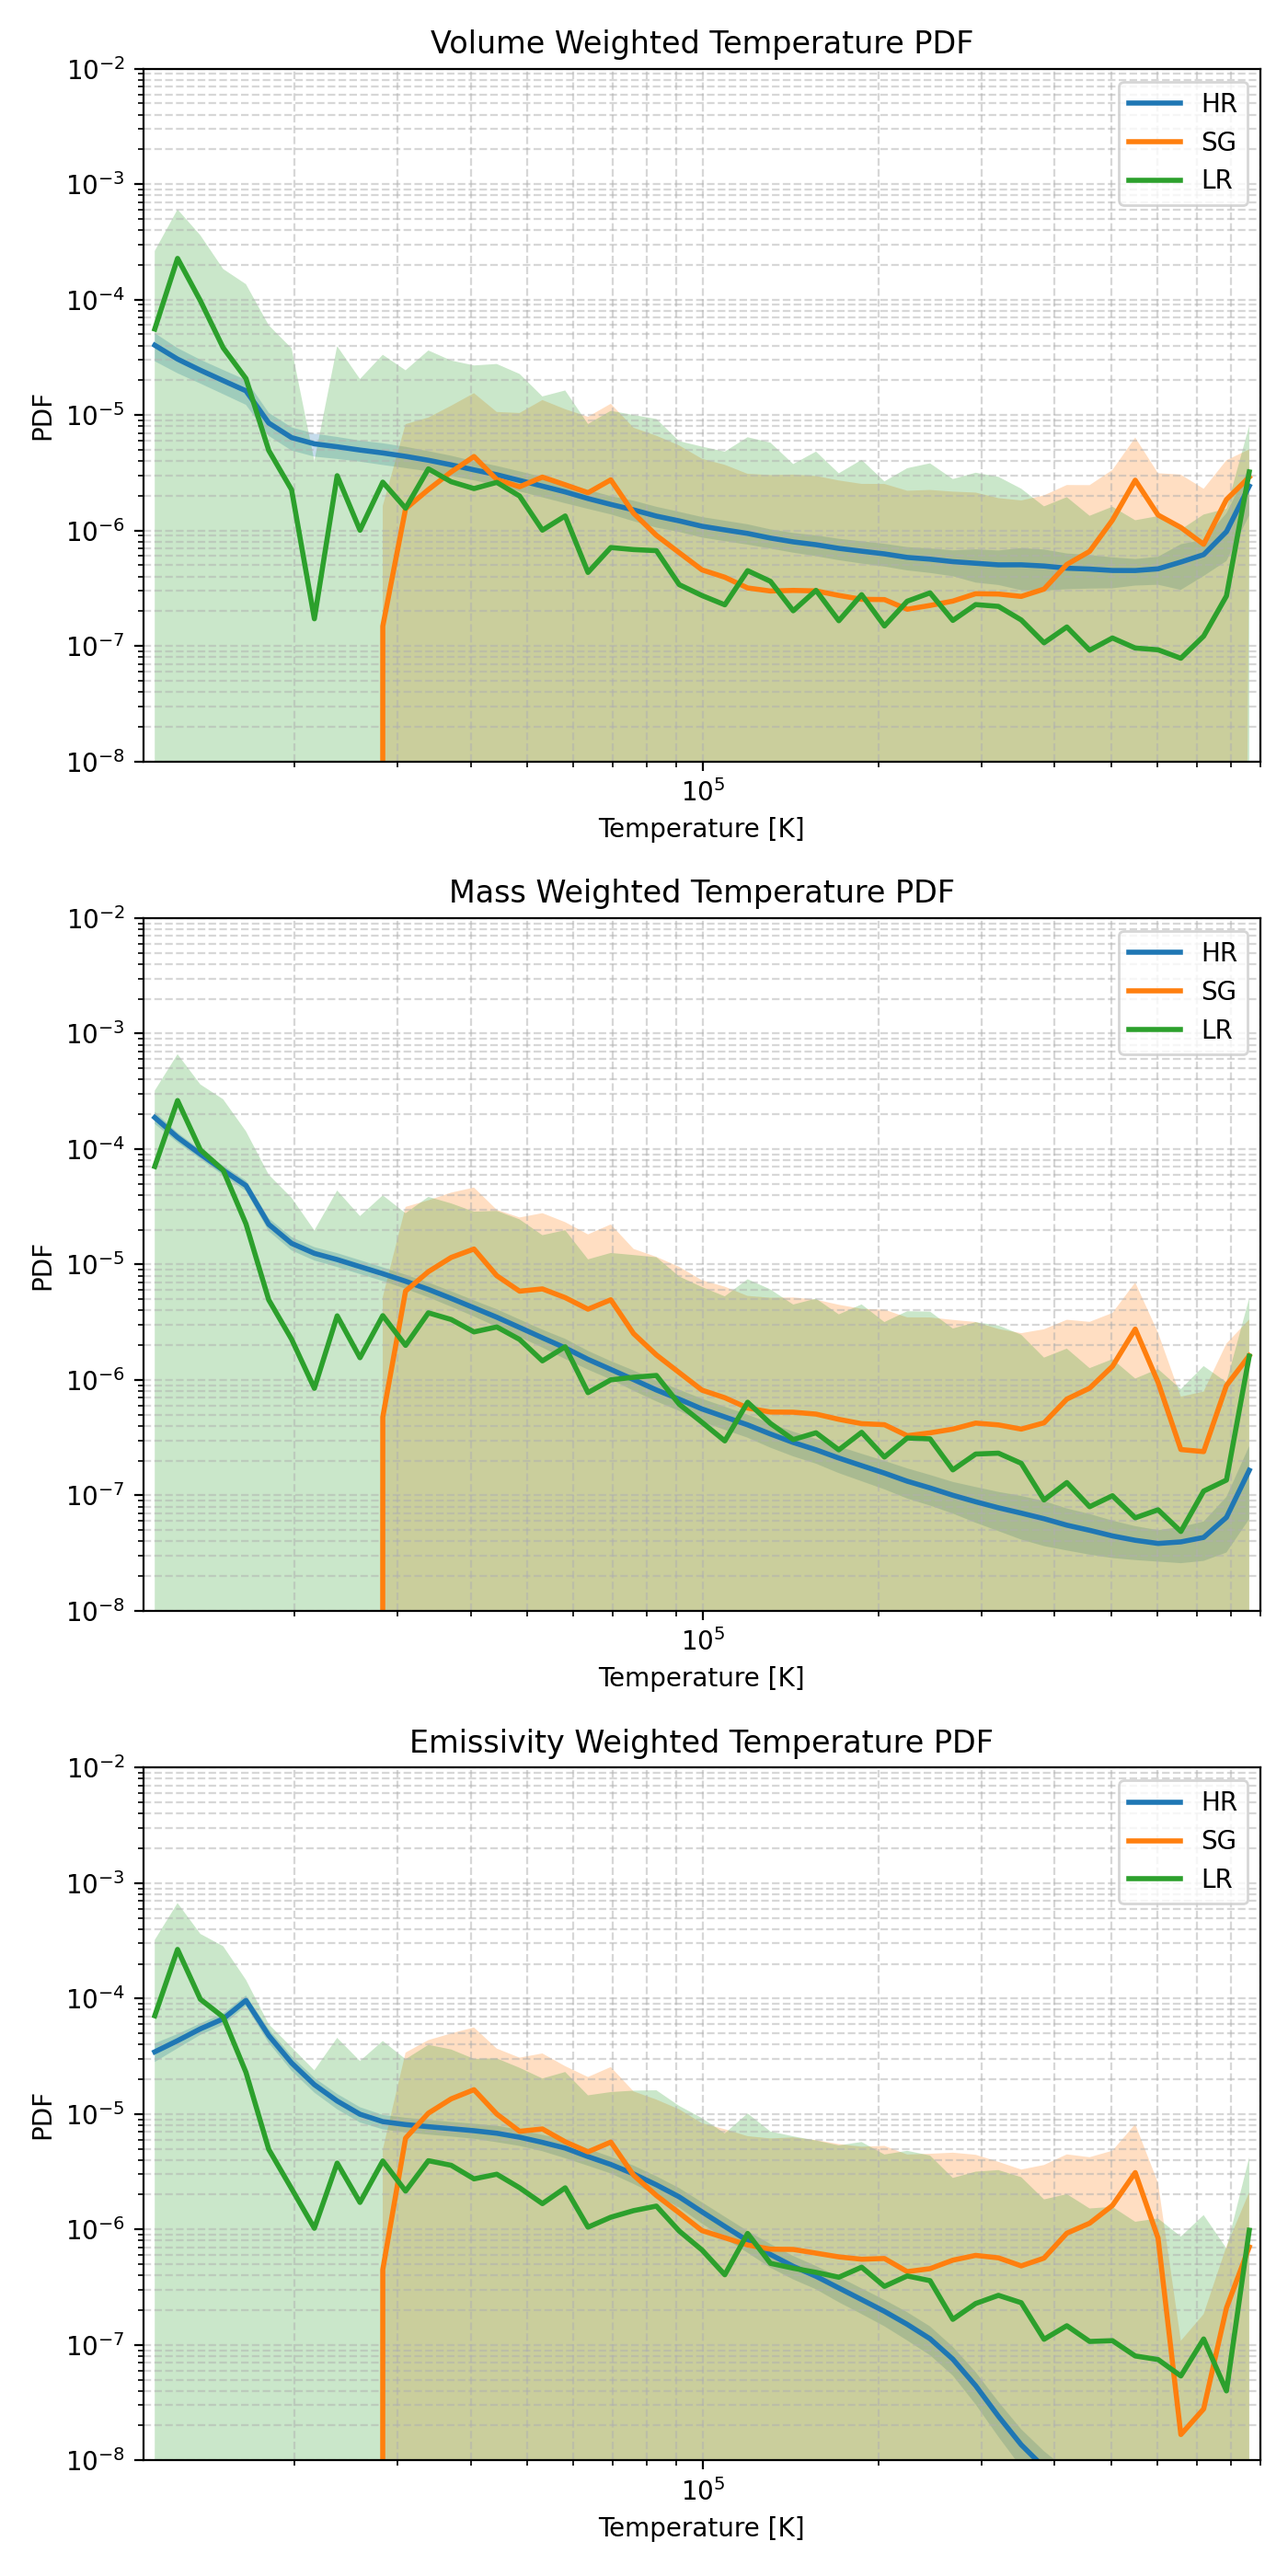
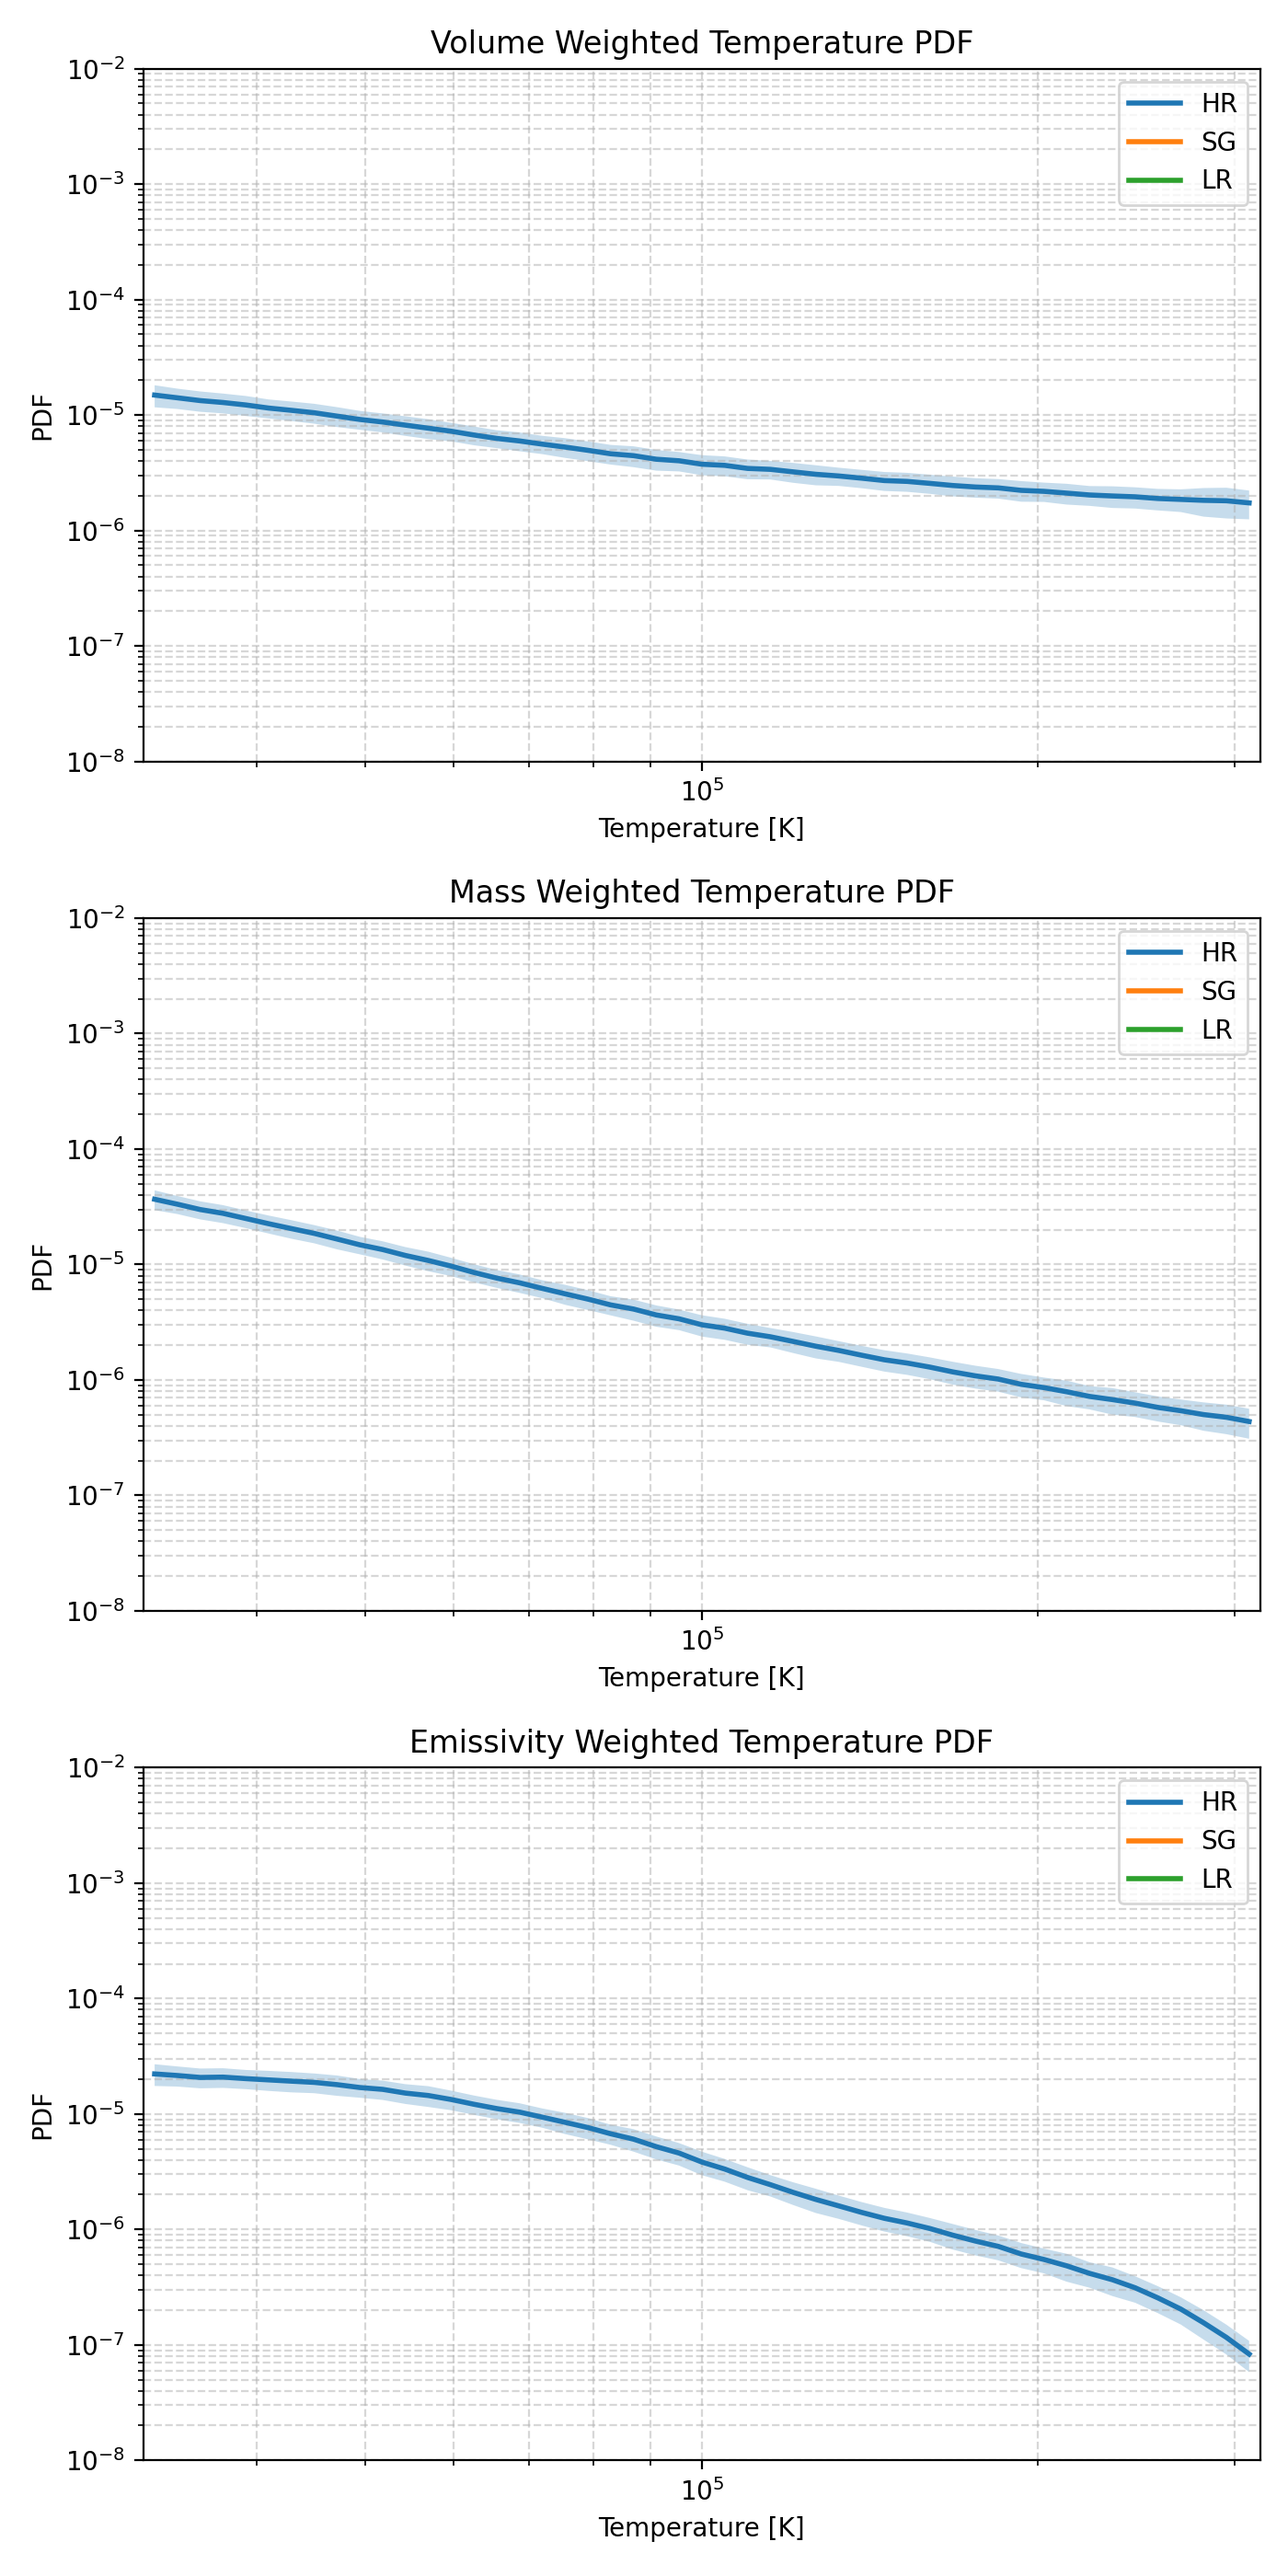
pdf

diff --git a/data/mocks/mock_sg.py b/data/mocks/mock_sg.py
@@ -859,8 +859,8 @@ def compute_weighted_pdf_stats(temp_arr, weight_arr):
 # HR uses FULL-resolution fields
 # ============================================================
 
-Tmin = 1.1e4
-Tmax = 0.9e6
+Tmin = 10**4.5
+Tmax = 10**5.5
 
 bins = np.logspace(np.log10(Tmin), np.log10(Tmax), 50)
 bin_centers = 0.5 * (bins[:-1] + bins[1:])
